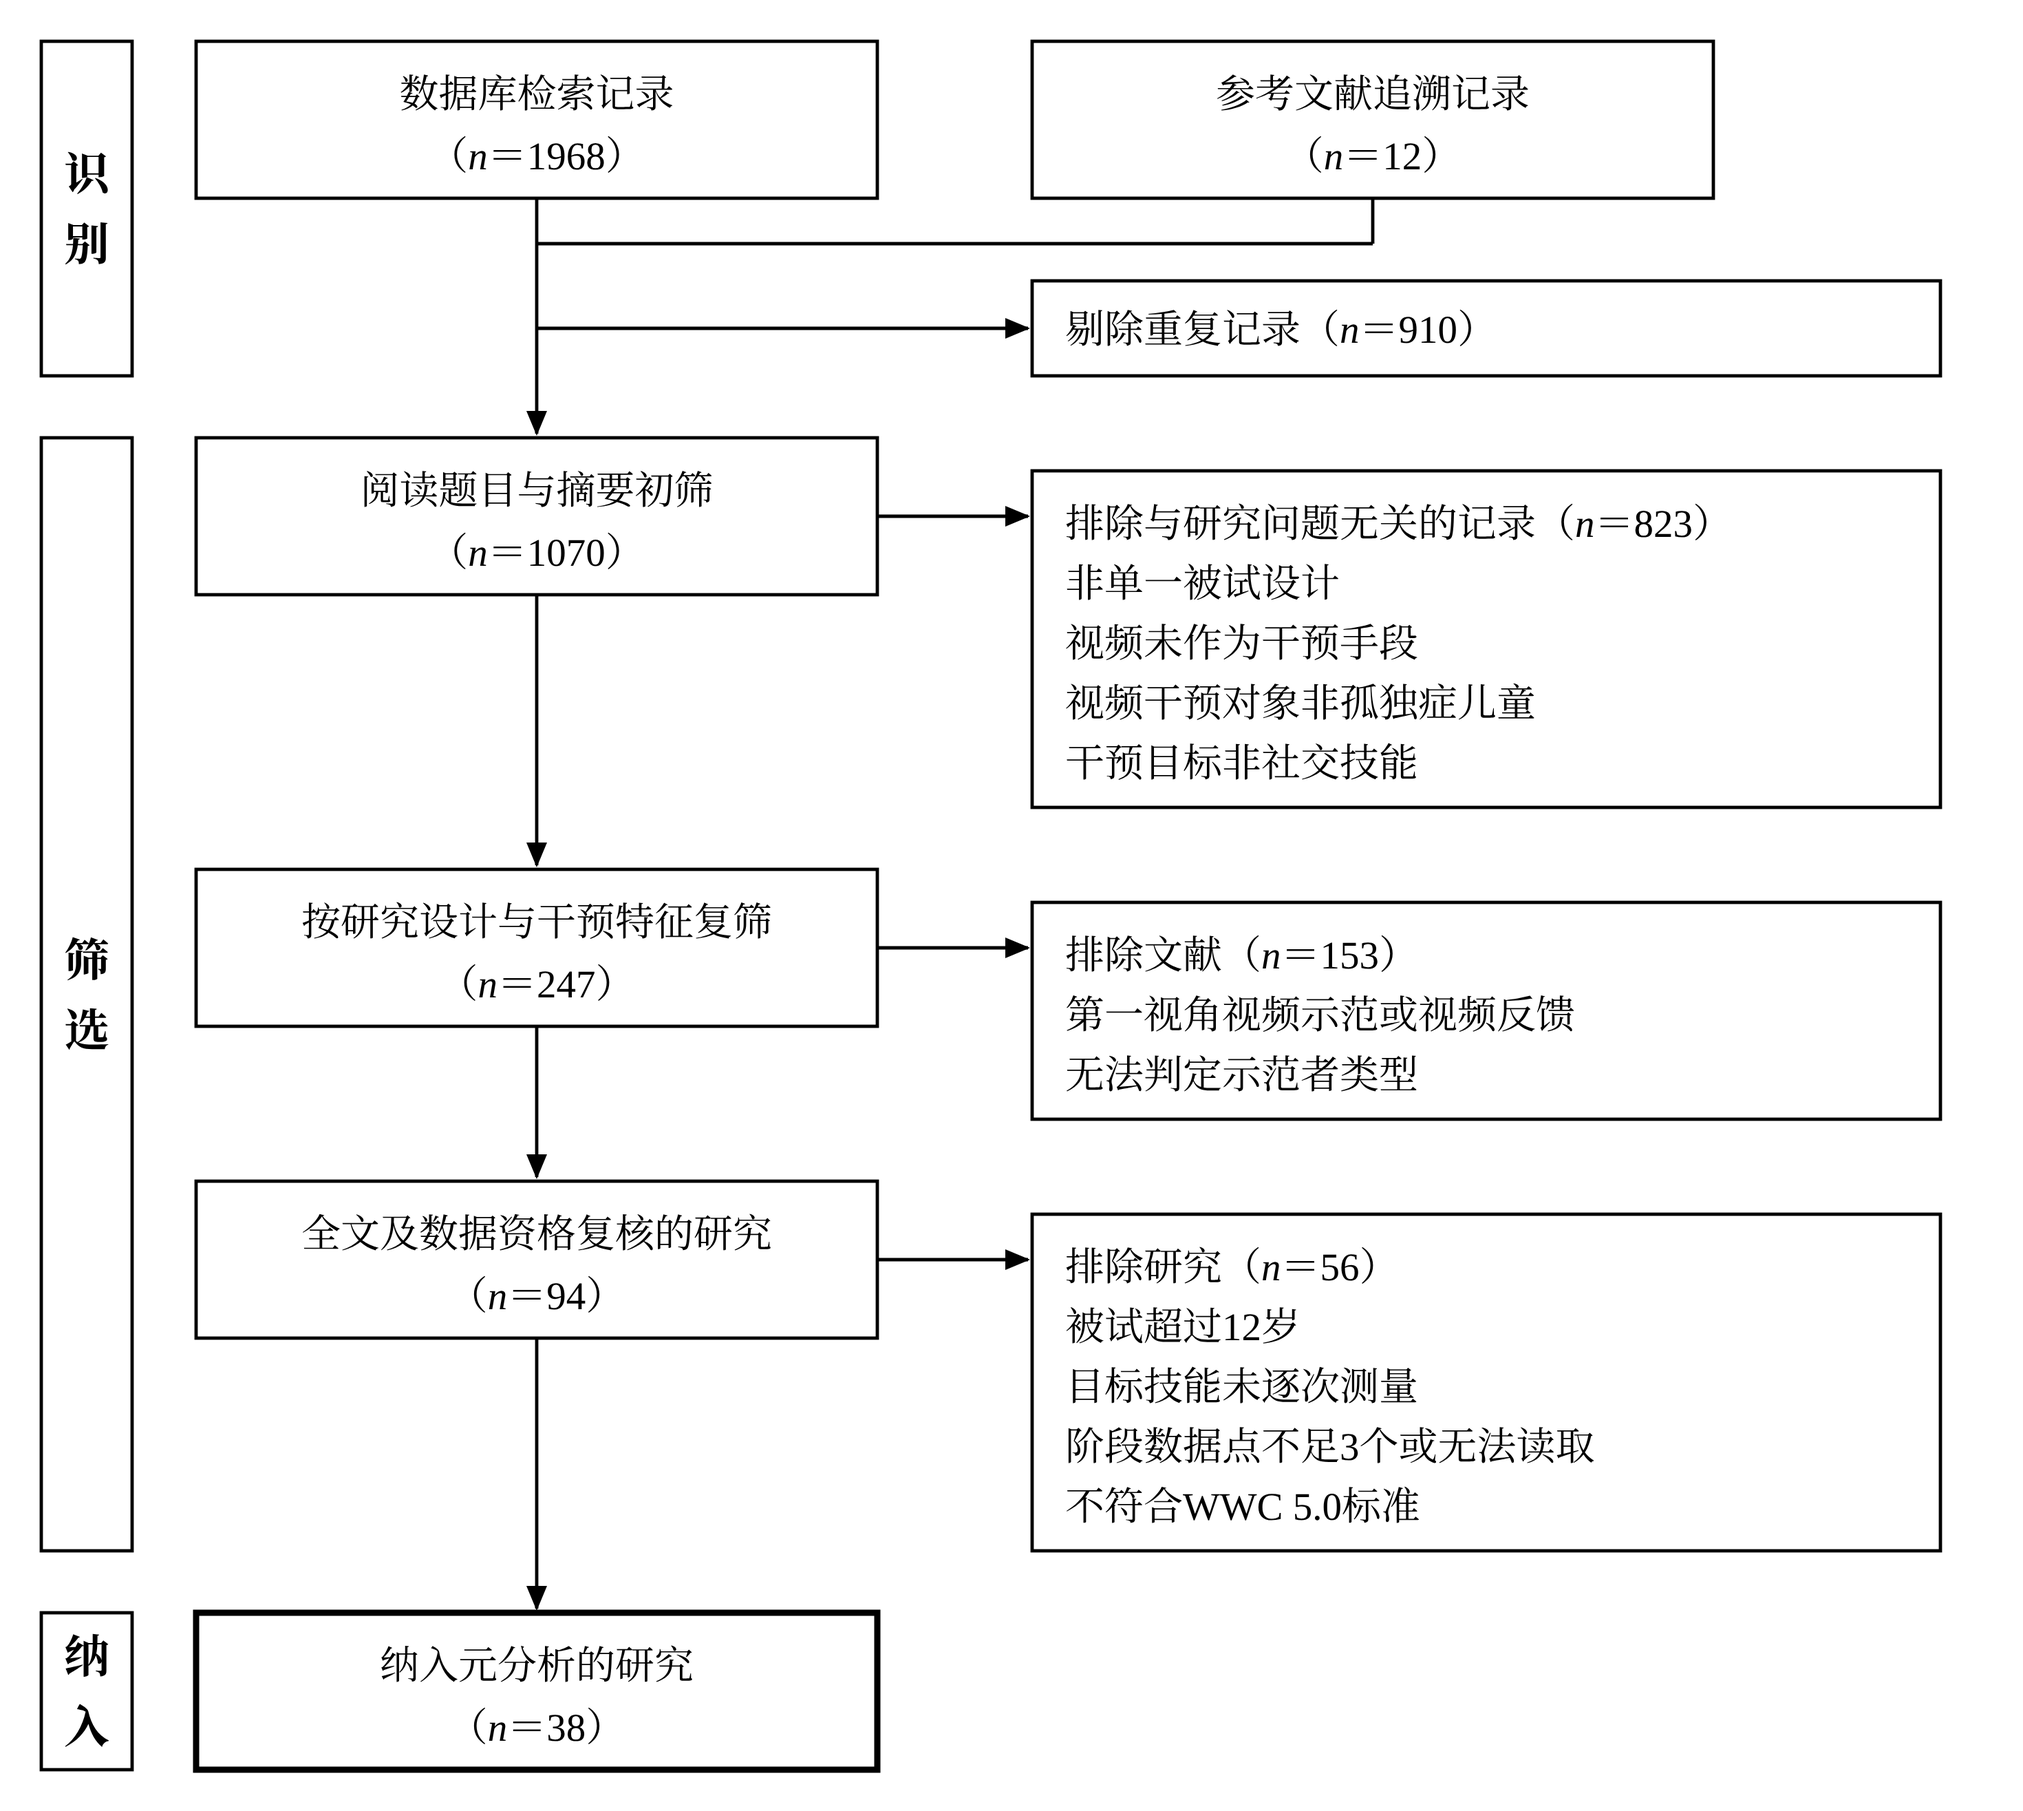
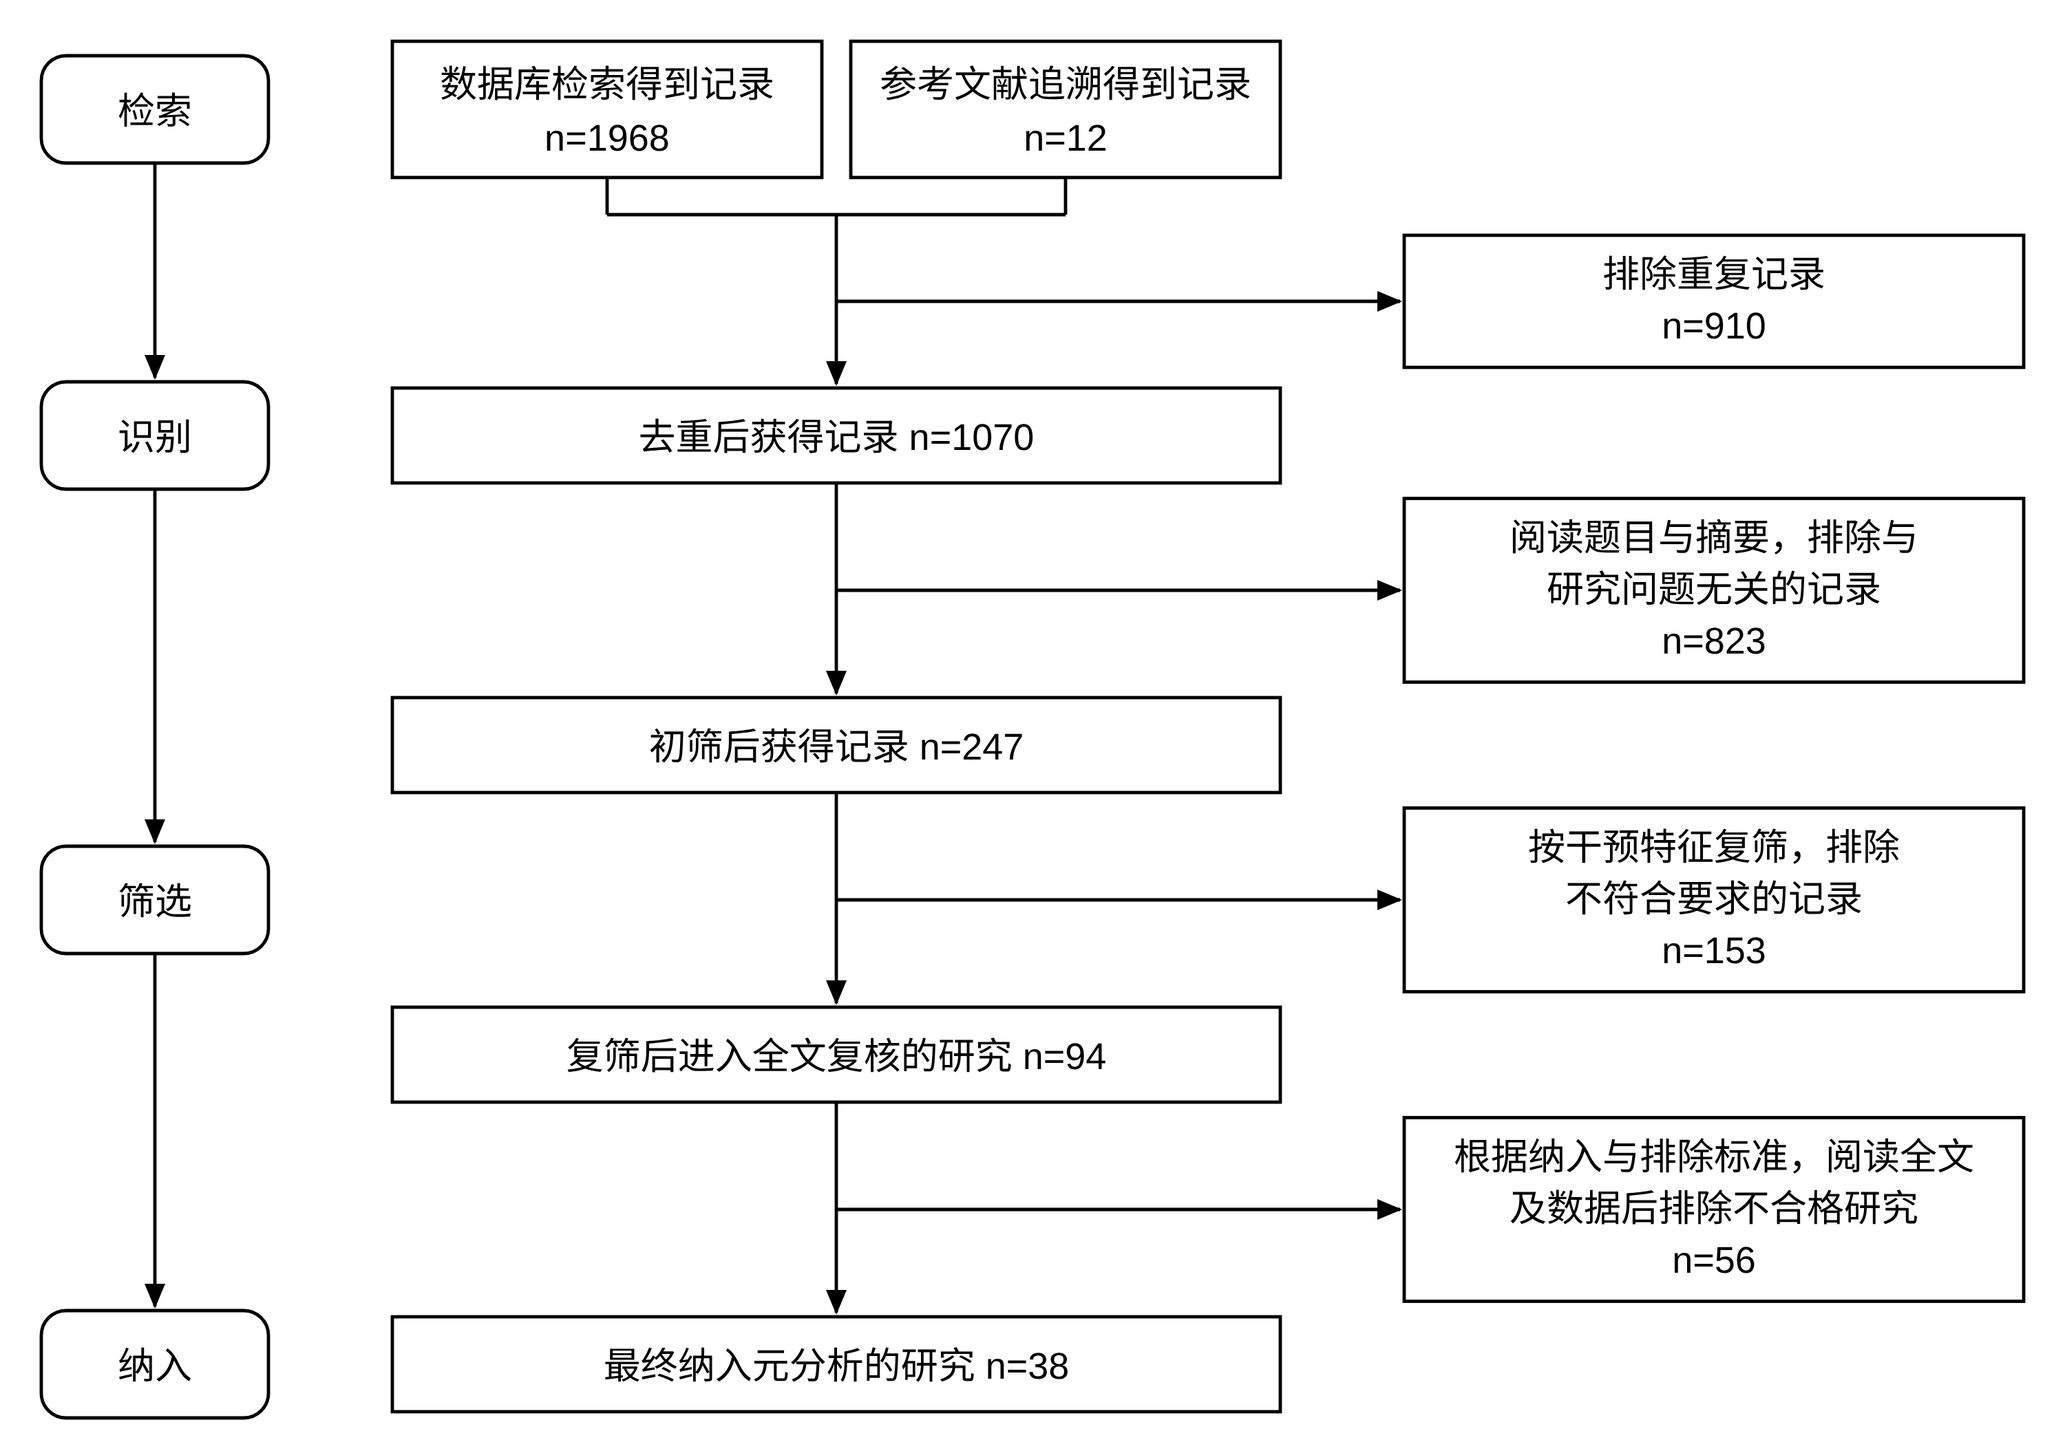
Redraw flowchart in reference-paper style
Claude-Session: https://claude.ai/code/session_01EqCS8pdH5dXcLV7bqheSma

diff --git a/文献筛选流程图/流程图.html b/文献筛选流程图/流程图.html
@@ -1,71 +1,64 @@
 <!doctype html>
 <html><head><meta charset="utf-8"><title>文献筛选流程图</title><style>body{margin:0;background:#fff}</style></head><body>
-<svg id="fig" width="980" height="877.0" viewBox="0 0 980 877.0" xmlns="http://www.w3.org/2000/svg">
+<svg id="fig" width="1000" height="704" viewBox="0 0 1000 704" xmlns="http://www.w3.org/2000/svg">
 <style>
-  text{font-family:"Times New Roman","Liberation Serif","SimSun","宋体","Noto Serif CJK SC",serif;font-size:19px;fill:#000}
-  text.stage{font-size:22px;font-weight:bold}
+  text{font-family:Arial,"Liberation Sans","SimHei","黑体","Microsoft YaHei","Noto Sans CJK SC",sans-serif;font-size:18px;fill:#000}
   .box{fill:#fff;stroke:#000;stroke-width:1.6}
-  .thick{stroke-width:3}
   .ln,.ln0{stroke:#000;stroke-width:1.6;fill:none}
   .ln{marker-end:url(#ar)}
 </style>
 <defs><marker id="ar" markerUnits="userSpaceOnUse" markerWidth="12" markerHeight="10" refX="11" refY="5" orient="auto"><path d="M0,0 L12,5 L0,10 z" fill="#000"/></marker></defs>
-<rect width="980" height="877.0" fill="#fff"/>
-<rect class="box" x="95" y="20" width="330" height="76"/>
-<text x="260.0" y="52" text-anchor="middle">数据库检索记录</text>
-<text x="260.0" y="82" text-anchor="middle">（<tspan font-style="italic">n</tspan>＝1968）</text>
-<rect class="box" x="500" y="20" width="330" height="76"/>
-<text x="665.0" y="52" text-anchor="middle">参考文献追溯记录</text>
-<text x="665.0" y="82" text-anchor="middle">（<tspan font-style="italic">n</tspan>＝12）</text>
-<line class="ln0" x1="260.0" y1="96" x2="260.0" y2="118"/>
-<line class="ln0" x1="665.0" y1="96" x2="665.0" y2="118"/>
-<line class="ln0" x1="665.0" y1="118" x2="260.0" y2="118"/>
-<rect class="box" x="500" y="136" width="440" height="46"/>
-<text x="516" y="166">剔除重复记录（<tspan font-style="italic">n</tspan>＝910）</text>
-<line class="ln" x1="260.0" y1="159.0" x2="498" y2="159.0"/>
-<line class="ln" x1="260.0" y1="118" x2="260.0" y2="210"/>
-<rect class="box" x="95" y="212" width="330" height="76"/>
-<text x="260.0" y="244" text-anchor="middle">阅读题目与摘要初筛</text>
-<text x="260.0" y="274" text-anchor="middle">（<tspan font-style="italic">n</tspan>＝1070）</text>
-<rect class="box" x="500" y="228.0" width="440" height="163"/>
-<text x="516" y="260.0">排除与研究问题无关的记录（<tspan font-style="italic">n</tspan>＝823）</text>
-<text x="516" y="289.0">非单一被试设计</text>
-<text x="516" y="318.0">视频未作为干预手段</text>
-<text x="516" y="347.0">视频干预对象非孤独症儿童</text>
-<text x="516" y="376.0">干预目标非社交技能</text>
-<line class="ln" x1="425" y1="250.0" x2="498" y2="250.0"/>
-<line class="ln" x1="260.0" y1="288" x2="260.0" y2="419.0"/>
-<rect class="box" x="95" y="421.0" width="330" height="76"/>
-<text x="260.0" y="453.0" text-anchor="middle">按研究设计与干预特征复筛</text>
-<text x="260.0" y="483.0" text-anchor="middle">（<tspan font-style="italic">n</tspan>＝247）</text>
-<rect class="box" x="500" y="437.0" width="440" height="105"/>
-<text x="516" y="469.0">排除文献（<tspan font-style="italic">n</tspan>＝153）</text>
-<text x="516" y="498.0">第一视角视频示范或视频反馈</text>
-<text x="516" y="527.0">无法判定示范者类型</text>
-<line class="ln" x1="425" y1="459.0" x2="498" y2="459.0"/>
-<line class="ln" x1="260.0" y1="497.0" x2="260.0" y2="570.0"/>
-<rect class="box" x="95" y="572.0" width="330" height="76"/>
-<text x="260.0" y="604.0" text-anchor="middle">全文及数据资格复核的研究</text>
-<text x="260.0" y="634.0" text-anchor="middle">（<tspan font-style="italic">n</tspan>＝94）</text>
-<rect class="box" x="500" y="588.0" width="440" height="163"/>
-<text x="516" y="620.0">排除研究（<tspan font-style="italic">n</tspan>＝56）</text>
-<text x="516" y="649.0">被试超过12岁</text>
-<text x="516" y="678.0">目标技能未逐次测量</text>
-<text x="516" y="707.0">阶段数据点不足3个或无法读取</text>
-<text x="516" y="736.0">不符合WWC 5.0标准</text>
-<line class="ln" x1="425" y1="610.0" x2="498" y2="610.0"/>
-<line class="ln" x1="260.0" y1="648.0" x2="260.0" y2="779.0"/>
-<rect class="box thick" x="95" y="781.0" width="330" height="76"/>
-<text x="260.0" y="813.0" text-anchor="middle">纳入元分析的研究</text>
-<text x="260.0" y="843.0" text-anchor="middle">（<tspan font-style="italic">n</tspan>＝38）</text>
-<rect class="box" x="20" y="20" width="44" height="162"/>
-<text class="stage" x="42.0" y="92.0" text-anchor="middle">识</text>
-<text class="stage" x="42.0" y="126.0" text-anchor="middle">别</text>
-<rect class="box" x="20" y="212" width="44" height="539.0"/>
-<text class="stage" x="42.0" y="472.5" text-anchor="middle">筛</text>
-<text class="stage" x="42.0" y="506.5" text-anchor="middle">选</text>
-<rect class="box" x="20" y="781.0" width="44" height="76.0"/>
-<text class="stage" x="42.0" y="810.0" text-anchor="middle">纳</text>
-<text class="stage" x="42.0" y="844.0" text-anchor="middle">入</text>
+<rect width="1000" height="704" fill="#fff"/>
+<rect class="box" x="190" y="20" width="208" height="66" rx="0"/>
+<text x="294.0" y="47" text-anchor="middle">数据库检索得到记录</text>
+<text x="294.0" y="73" text-anchor="middle">n=1968</text>
+<rect class="box" x="412" y="20" width="208" height="66" rx="0"/>
+<text x="516.0" y="47" text-anchor="middle">参考文献追溯得到记录</text>
+<text x="516.0" y="73" text-anchor="middle">n=12</text>
+<line class="ln0" x1="294.0" y1="86" x2="294.0" y2="104"/>
+<line class="ln0" x1="516.0" y1="86" x2="516.0" y2="104"/>
+<line class="ln0" x1="294.0" y1="104" x2="516.0" y2="104"/>
+<line class="ln" x1="405.0" y1="104" x2="405.0" y2="186"/>
+<rect class="box" x="680" y="114.0" width="300" height="64" rx="0"/>
+<text x="830.0" y="139.0" text-anchor="middle">排除重复记录</text>
+<text x="830.0" y="164.0" text-anchor="middle">n=910</text>
+<line class="ln" x1="405.0" y1="146.0" x2="678" y2="146.0"/>
+<rect class="box" x="190" y="188" width="430" height="46" rx="0"/>
+<text x="405.0" y="218" text-anchor="middle">去重后获得记录 n=1070</text>
+<line class="ln" x1="405.0" y1="234" x2="405.0" y2="336"/>
+<rect class="box" x="680" y="241.5" width="300" height="89" rx="0"/>
+<text x="830.0" y="266.5" text-anchor="middle">阅读题目与摘要，排除与</text>
+<text x="830.0" y="291.5" text-anchor="middle">研究问题无关的记录</text>
+<text x="830.0" y="316.5" text-anchor="middle">n=823</text>
+<line class="ln" x1="405.0" y1="286.0" x2="678" y2="286.0"/>
+<rect class="box" x="190" y="338" width="430" height="46" rx="0"/>
+<text x="405.0" y="368" text-anchor="middle">初筛后获得记录 n=247</text>
+<line class="ln" x1="405.0" y1="384" x2="405.0" y2="486"/>
+<rect class="box" x="680" y="391.5" width="300" height="89" rx="0"/>
+<text x="830.0" y="416.5" text-anchor="middle">按干预特征复筛，排除</text>
+<text x="830.0" y="441.5" text-anchor="middle">不符合要求的记录</text>
+<text x="830.0" y="466.5" text-anchor="middle">n=153</text>
+<line class="ln" x1="405.0" y1="436.0" x2="678" y2="436.0"/>
+<rect class="box" x="190" y="488" width="430" height="46" rx="0"/>
+<text x="405.0" y="518" text-anchor="middle">复筛后进入全文复核的研究 n=94</text>
+<line class="ln" x1="405.0" y1="534" x2="405.0" y2="636"/>
+<rect class="box" x="680" y="541.5" width="300" height="89" rx="0"/>
+<text x="830.0" y="566.5" text-anchor="middle">根据纳入与排除标准，阅读全文</text>
+<text x="830.0" y="591.5" text-anchor="middle">及数据后排除不合格研究</text>
+<text x="830.0" y="616.5" text-anchor="middle">n=56</text>
+<line class="ln" x1="405.0" y1="586.0" x2="678" y2="586.0"/>
+<rect class="box" x="190" y="638" width="430" height="46" rx="0"/>
+<text x="405.0" y="668" text-anchor="middle">最终纳入元分析的研究 n=38</text>
+<rect class="box" x="20" y="27.0" width="110" height="52" rx="12"/>
+<text x="75.0" y="60.0" text-anchor="middle">检索</text>
+<line class="ln" x1="75.0" y1="79.0" x2="75.0" y2="183.0"/>
+<rect class="box" x="20" y="185.0" width="110" height="52" rx="12"/>
+<text x="75.0" y="218.0" text-anchor="middle">识别</text>
+<line class="ln" x1="75.0" y1="237.0" x2="75.0" y2="408.0"/>
+<rect class="box" x="20" y="410.0" width="110" height="52" rx="12"/>
+<text x="75.0" y="443.0" text-anchor="middle">筛选</text>
+<line class="ln" x1="75.0" y1="462.0" x2="75.0" y2="633.0"/>
+<rect class="box" x="20" y="635.0" width="110" height="52" rx="12"/>
+<text x="75.0" y="668.0" text-anchor="middle">纳入</text>
 </svg>
 </body></html>
